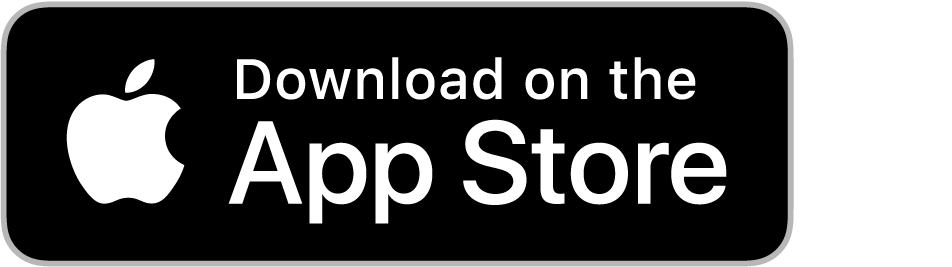
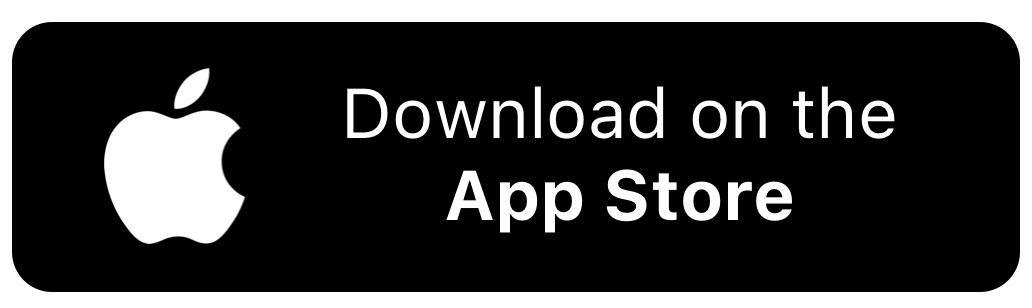
first

diff --git a/index.html b/index.html
@@ -295,7 +295,8 @@
             <h1>Download the NuTec App Today <br> <span style="font-size: 1.6vw;font-weight: normal;" class="bannerInnerText">
                 Stay Updated and get all your medical needs taken care of!
             </span></h1>
-            <a href="app.html" target="_blank"><img src="images/ios and android.png" alt=""></a>
+            <a href="app.html" target="_blank"><img src="images/android.png" alt=""></a>
+            <a href="app.html" target="_blank"><img src="images/ios.jpg" alt=""></a>
           </div>
           <div class="bannerImg" data-aos="fade-up" data-aous-duration="1000">
             <img src="images/app.png" alt="">
